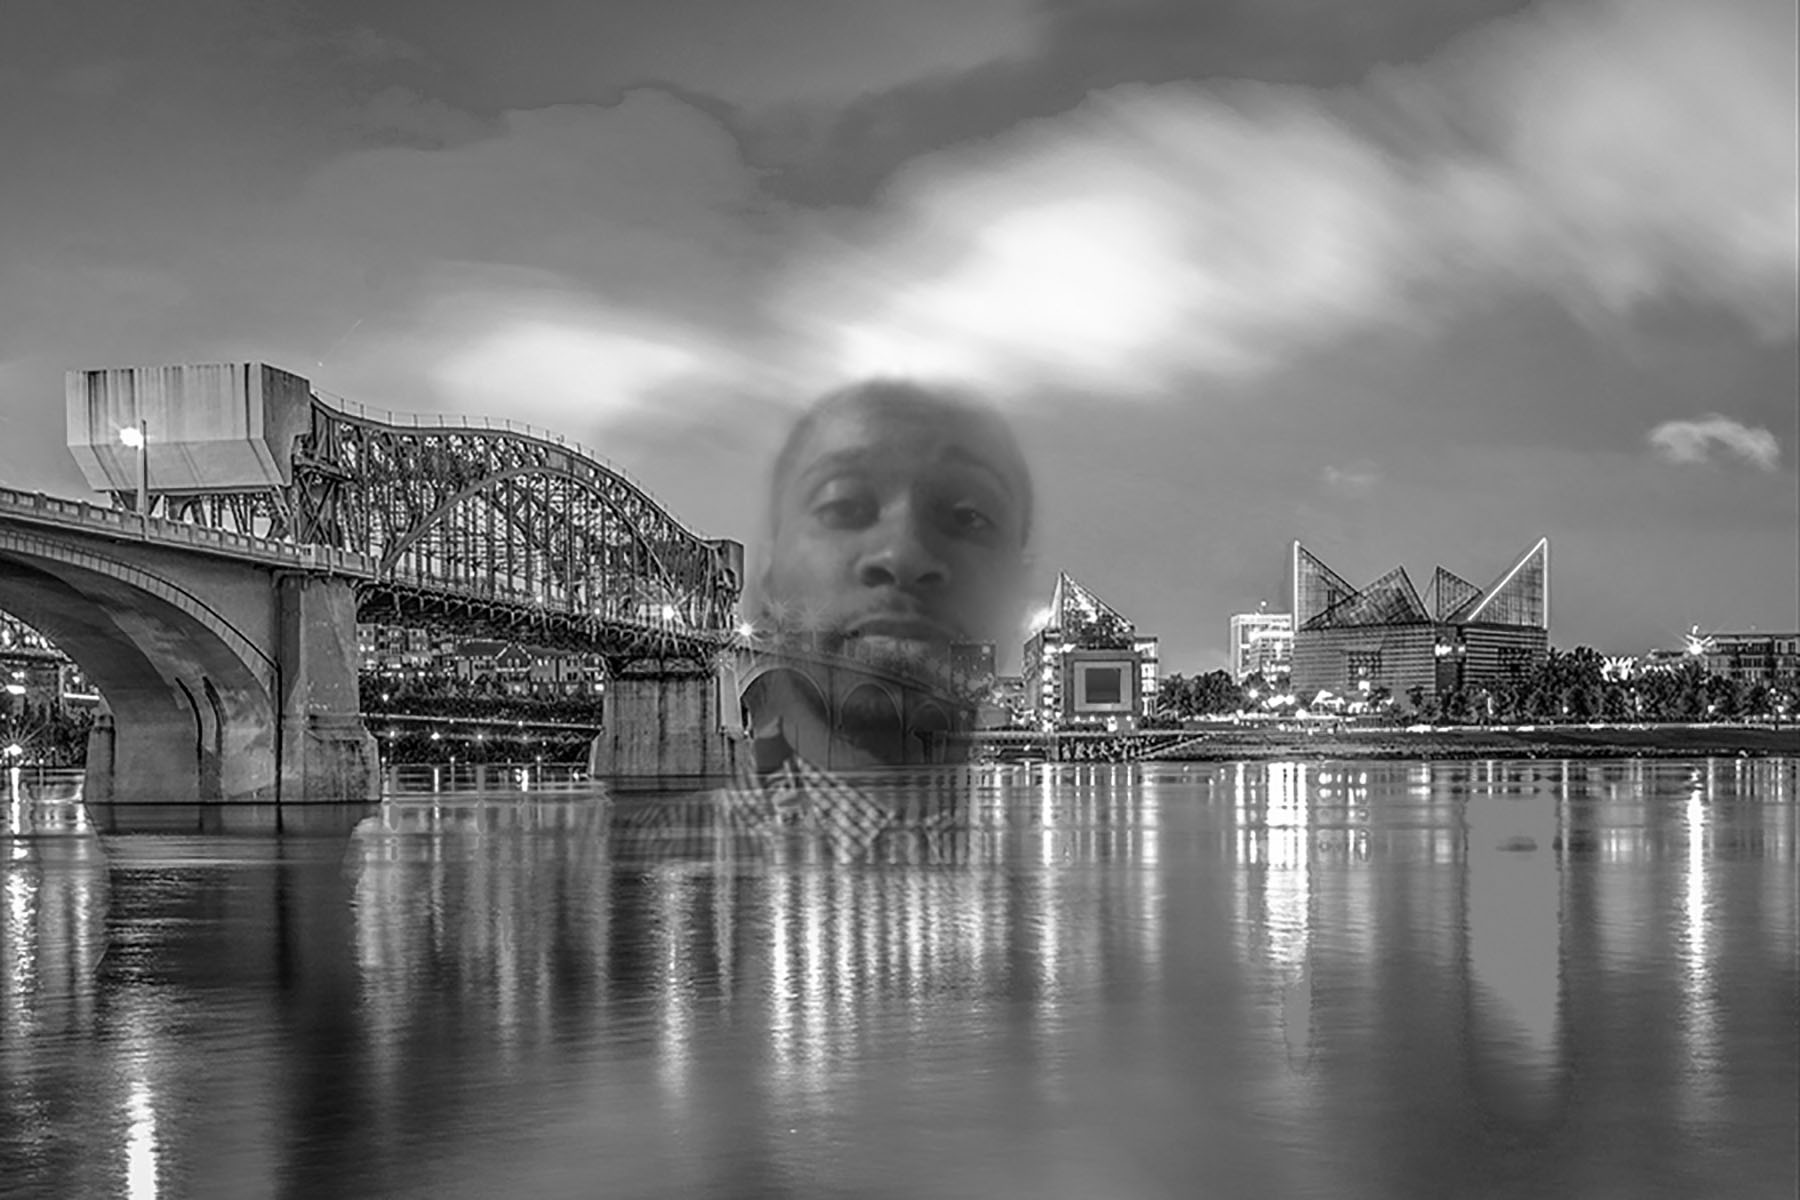
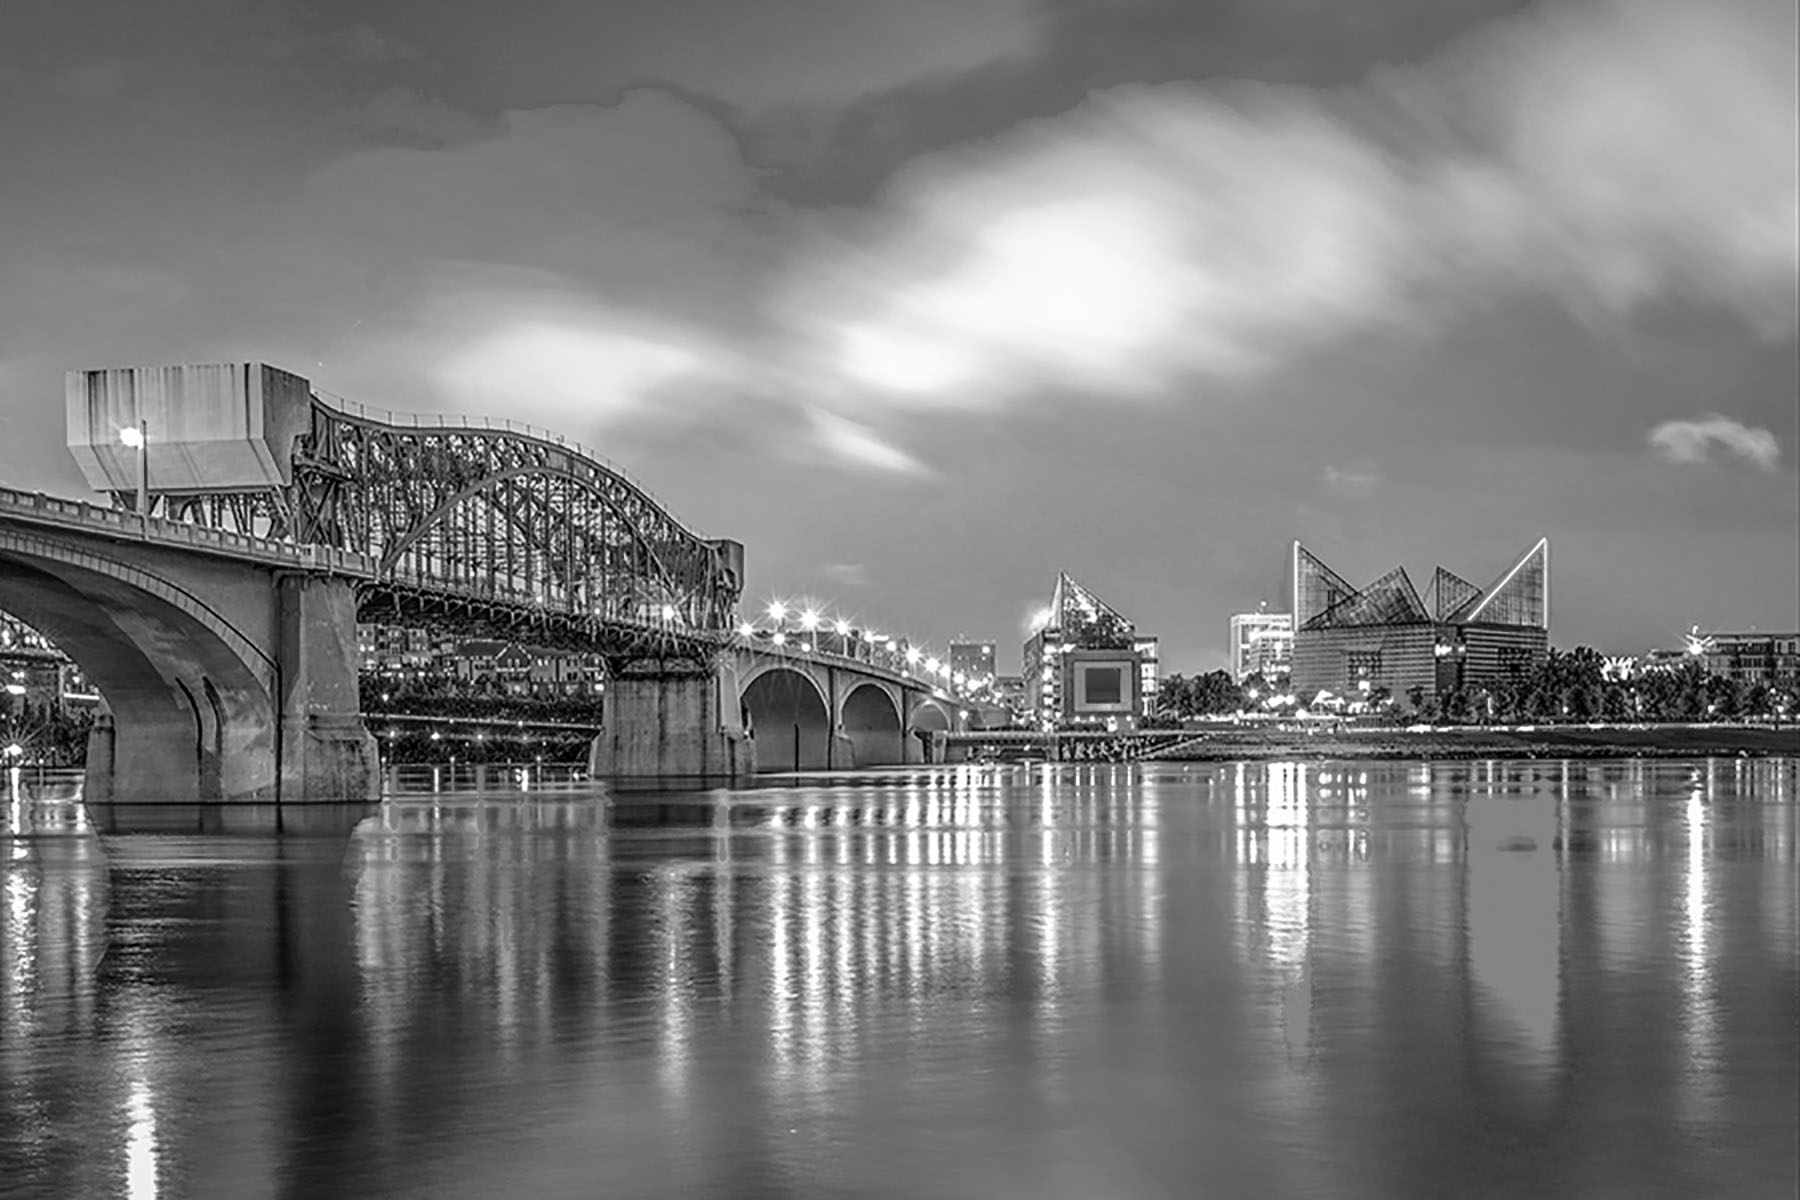
Home page fix

Changed region(s): [[0.3422, 0.3083, 0.5911, 0.7708]]

diff --git a/css/style.css b/css/style.css
@@ -80,55 +80,6 @@ html, body {
   background-color: rgba(255, 255, 0, 0.5);
 }
 
-#homepage-header {
-  font-weight: bold;
-  font-size: 300%;
-  text-align: center;
-  margin-top: 100px;
-  margin-bottom: 80px;
-}
-
-#homepage-header2 {
-  text-align: center;
-  font-weight: bold;
-  box-sizing: content-box;
-  width: 400px;
-  margin:0 auto;
-  margin-bottom: 100px;
-  background-color: rgba(100, 100, 100, 0.1);
-  font-family: "Segoe Script";
-  border-radius: 10px;
-
-}
-
-#homepage-header3 {
-  padding: 50px;
-  color: #ECBA3E;
-  font-family: 'Chancery Cursive', serif;
-  font-size: 3em;
-  text-align: center;
-}
-
-#homepage-header3 hr {
-  background-color: black;
-  padding: 2px;
-  width: 15%;
-  border: none;
-  margin-top: -20px;
-}
-
-#homepage-about {
-background-color: rgba(100, 100, 100, 0);
-box-sizing: content-box;
-width: 600px;
-border-radius: 10px;
-list-style: none;
-text-align: center;
-font-size: 26px;
-padding: 10px;
-margin:0 auto;
-}
-
 #results {
   background-color: rgba(0, 0, 0, 0.5);
   margin-top: 11%;
@@ -420,26 +371,20 @@ border-color: gold;
 .homepage-navbar img {
   float: left;
   border-radius: 0;
-  top: 0;
-
-}
-
-#lastitem {
-  margin-right: 15px;
+  margin-top: 10px;
+  margin-left: 8px;
 }
 
 .homepage-navbar button {
-  padding: 10px 12px;
+  /* padding: 0px 12px 0px 12px; */
+  width: 90px;
   font-size: 15px;
-  background-image: none;
-  background-color: rgba(0, 0, 0, 0);
-  color: #fdb927;
+  text-align: center;
   border: none;
+  color: #fdb927;
  }
 
 .homepage-navbar button:hover {
-  padding: 10px 12px;
-  background-color: rgba(0, 0, 0, 0);
   color: #552583;
 }
 
@@ -448,20 +393,147 @@ border-color: gold;
 }
 
 .homepage-navbar a {
-  padding: 10.5px 8px;
+  padding: 26.1px 8px 26px 8px;
   text-decoration: none;
   color: #fdb927;
   text-align: center;
 }
 
 .homepage-navbar a:hover {
-  padding: 10.5px 8px;
   color: #552583;
 }
 
 .homepage-navbar ul {
   margin-left: -133px;
-  top: -2px;
+  top: 13px;
+}
+
+#lastitem {
+  margin-right: 15px;
+}
+
+/* Homepage style */
+.main-body {
+  height: 800px;
+  background-repeat: no-repeat;
+  background-size: 100% 100%;
+  background-image: url("/CTS.jpg");
+  background-position: center;
+  color: black;
+  }
+
+.main-body2 {
+  height: 600px;
+  background-repeat: no-repeat;
+  background-size: auto auto;
+  background-image: url("/MeTux.jpg");
+  color: purple;
+  margin-top: -24px;
+  border-top: 2px solid black;
+  border-bottom: 2px solid purple;
+}
+
+.main-body3 {
+  background-color: black;
+  color: #ECBA3E;
+  margin-top: -40px;
+}
+
+.main-body3 h2 {
+  padding: 50px;
+  color: #ECBA3E;
+  font-family: 'Times New Romans', serif;
+  font-size: 3em;
+  text-align: center;
+  font-weight: bold;
+  margin-bottom: -30px;
+}
+
+.main-body3hr hr {
+  width: 25%;
+  background-color: #ECBA3E;
+  padding: 2px;
+  border: none;
+  margin-bottom: 70px;
+}
+
+/* Homepage content style */
+
+.empty {
+  width: 100%;
+  padding: 1px;
+}
+
+.homepage-header {
+  width: 35%;
+  font-family: arial;
+  font-size: 3.5em;
+  font-weight: bold;
+  text-align: left;
+  margin-top: 150px;
+  margin-left: 180px;
+  padding: 0;
+  text-transform: uppercase;
+}
+
+#homepage-header2 {
+  text-align: center;
+  font-weight: bold;
+  box-sizing: content-box;
+  width: 400px;
+  margin:0 auto;
+  margin-top: 100px;
+  font-family: "Segoe Script";
+  border-radius: 10px;
+
+}
+
+#homepage-header3 {
+  padding: 50px;
+  color: #ECBA3E;
+  font-family: 'Chancery Cursive', serif;
+  font-size: 3em;
+  text-align: center;
+}
+
+#homepage-header3 hr {
+  background-color: black;
+  padding: 2px;
+  width: 15%;
+  border: none;
+  margin-top: -20px;
+}
+
+#homepage-about {
+background-color: rgba(100, 100, 100, 0);
+box-sizing: content-box;
+width: 600px;
+border-radius: 10px;
+list-style: none;
+text-align: center;
+font-size: 26px;
+padding: 10px;
+margin:0 auto;
+}
+
+.home-links {
+  text-align: center;
+  margin-right: 50px;
+  margin-bottom: 125px;
+}
+
+.home-links a {
+  text-decoration: none;
+  color: #fdb927;
+}
+
+.home-links a:hover {
+  color: #552583;
+}
+
+.home-links li {
+  display: inline-block;
+  padding: 0px 20px 0px 20px;
 }
 
 /* Navigation bar for Media Page */
@@ -539,72 +611,6 @@ border-color: gold;
   top: 7px;
 }
 
-/* homepage style */
-.main-body {
-  height: 800px;
-  background-position: center;
-  background-repeat: no-repeat;
-  background-size: cover;
-  background-image: url("/CTS.jpg");
-  color: white;
-  margin-top: -21px;
-  }
-
-.main-body2 {
-  height: 600px;
-  background-repeat: no-repeat;
-  background-size: auto auto;
-  background-image: url("/MeTux.jpg");
-  color: purple;
-  margin-top: -24px;
-  border-top: 2px solid black;
-  border-bottom: 2px solid purple;
-}
-
-.main-body3 {
-  background-color: black;
-  color: #ECBA3E;
-  margin-top: -40px;
-}
-
-.main-body3 h2 {
-  padding: 50px;
-  color: #ECBA3E;
-  font-family: 'Times New Romans', serif;
-  font-size: 3em;
-  text-align: center;
-  font-weight: bold;
-  margin-bottom: -30px;
-}
-
-.main-body3hr hr {
-  width: 25%;
-  background-color: #ECBA3E;
-  padding: 2px;
-  border: none;
-  margin-bottom: 70px;
-}
-
-.home-links {
-  text-align: center;
-  margin-right: 50px;
-  margin-bottom: 125px;
-}
-
-.home-links a {
-  text-decoration: none;
-  color: #fdb927;
-}
-
-.home-links a:hover {
-  color: #552583;
-}
-
-.home-links li {
-  display: inline-block;
-  padding: 0px 20px 0px 20px;
-}
-
 /* Project page nav bar */
 .pronav {
   padding: 20px 10px;
@@ -622,15 +628,15 @@ border-color: gold;
 }
 
 /*  */
-.navigation {
+/* .navigation {
   background-color: #552583;
   padding: 20px 70px;
-}
+} */
 
-.navigation a {
+/* .navigation a {
   color: #fdb927;
   padding: 0px 10px;
-}
+} */
 
 .list {
   color: blue;

diff --git a/index.html b/index.html
@@ -5,8 +5,9 @@
   <meta name="viewport" content="width=device-width, initial-scale=1.0">
   <meta http-equiv="X-UA-Compatible" content="ie=edge">
   <link type="text/css" rel="stylesheet" href="/css/style.css" >
-  <script defer src="https://use.fontawesome.com/releases/v5.0.6/js/all.js"></script>
-  <script type="text/javascript" src="https://code.jquery.com/jquery-3.2.1.slim.min.js" integrity="sha384-KJ3o2DKtIkvYIK3UENzmM7KCkRr/rE9/Qpg6aAZGJwFDMVNA/GpGFF93hXpG5KkN" crossorigin="anonymous"></script>
+  <script type="text/javascript" src="https://code.jquery.com/jquery-3.3.1.min.js"></script>
+  <script type="text/javascript" src="landingpage.js"></script>
+  <script src="https://use.fontawesome.com/releases/v5.0.6/js/all.js"></script>
   <title>Quintez Martin | Web Developer</title>
 </head>
 <body>
@@ -14,7 +15,7 @@
     <nav class="homepage-navbar">
       <img src="/Name.png" height="50px">
       <a href="/">Home</a>
-      <button style="cursor:pointer" onclick="myFunction()" class="homepage-navbar">Projects <i class="fa fa-caret-down" style="display: inline;"></i></button>
+      <button style="cursor:pointer" onclick="myFunction()" class="homepage-navbar">Projects <i class="fa fa-caret-down" style="display: inline-block;"></i></button>
       <div class="dropdown">
         <ul id="myDropdown" class="dropdown-content">
           <li><a href="https://twp2studentshowcase.netlify.com/">Class Showcase</a></li>
@@ -27,13 +28,14 @@
       <a href="/blog">Blog</a>
       <a id="lastitem" href="/contact">Contact</a>
     </nav>
-  </header>
   <div class="main-body">
-    <div>
-    <h1><b>Chattanooga's Finest</b></h1>
+    <div class="empty">
+    </div>
+    <div class="homepage-header">
+      <p>Designed to move <i style="color:white">forward</i> in <i style="color:white">development.</i></p>
     </div>
     <div id="homepage-header2">
-    <h1>Quintez Martin</h1>
+    <h1></h1>
     </div>
   </div>
   <div class="main-body2">

diff --git a/media/index.html b/media/index.html
@@ -5,7 +5,7 @@
   <meta name="viewport" content="width=device-width, initial-scale=1.0">
   <meta http-equiv="X-UA-Compatible" content="ie=edge">
   <link type="text/css" rel="stylesheet" href="../css/style.css" >
-  <script defer src="https://use.fontawesome.com/releases/v5.0.6/js/all.js"></script>
+  <script src="https://use.fontawesome.com/releases/v5.0.6/js/all.js"></script>
   <title>Quintez Martin | Media</title>
 </head>
 <body class="body-media">
@@ -70,7 +70,7 @@
 </div>
 </div>
 <script type="text/javascript" src="media.js"></script>
-<script type="text/javascript" src="greeter.js"></script>
-<script type="text/javascript" src="greeting.js"></script>
+<script  type="text/javascript" defer src="greeter.js"></script>
+<script  type="text/javascript" defer src="greeting.js"></script>
 </body>
 </html>

diff --git a/landingpage.js b/landingpage.js
@@ -1,3 +1,4 @@
+
 $('ol').on('mouseover', () => {
   $('ol').addClass('highlighted');
 })
